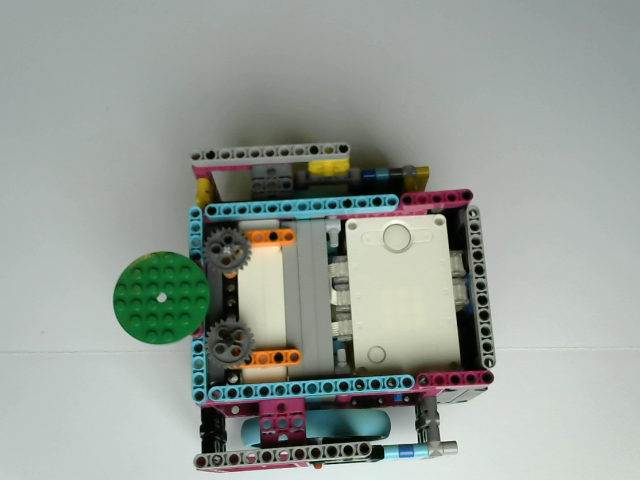
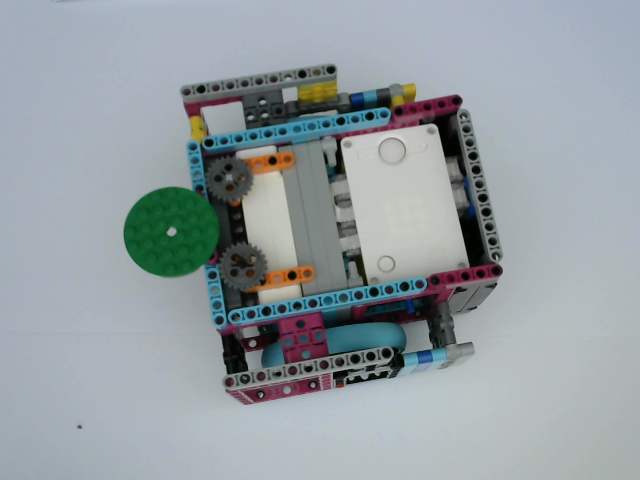
Changes to make all demo turn work.

diff --git a/demorunOneTest.py b/demorunOneTest.py
@@ -12,15 +12,16 @@ import csv
 # 6. computes the end actual angle.
 # 7. returns all of this as output.
 def runOneTest(angleToTest, speedToTest, turn_deceleration, correction):
-    startAnglePictureFilename = "startangle_robot_picture.png"
-    endAnglePictureFilename = "endangle_robot_picture.png"
+    #startAnglePictureFilename = "startangle_robot_picture.png"
+    #endAnglePictureFilename = "endangle_robot_picture.png"
+    startAnglePictureFilename = "test_start_picture.jpg"
+    endAnglePictureFilename = "test_end_picture.jpg"
 
     print("Capturing start picture")
-    startPicture = capturePicture(startAnglePictureFilename)
-
+    capturePicture(startAnglePictureFilename)
 
     print("Dectecting Start angle")
-    startFoundRobot, width, height, angle, startActualAngle = detectAngleOfRobotUsingImage("demo_start_picture.jpg", 
+    startFoundRobot, width, height, angle, startActualAngle = detectAngleOfRobotUsingImage(startAnglePictureFilename, 
                                                                                            showImages=True)
     #startFoundRobot, width, height, angle, startActualAngle = detectAngleOfRobotUsingImage(startAnglePictureFilename, 
     #                                                                                       showImages=False)
@@ -40,7 +41,7 @@ def runOneTest(angleToTest, speedToTest, turn_deceleration, correction):
     endPicture = capturePicture(endAnglePictureFilename)
 
     print("Dectecting end angle")
-    endFoundRobot, width, height, angle, endActualAngle = detectAngleOfRobotUsingImage("demo_end_picture.jpg",
+    endFoundRobot, width, height, angle, endActualAngle = detectAngleOfRobotUsingImage(endAnglePictureFilename,
                                                                                        showLastImage = True)
     #endFoundRobot, width, height, angle, endActualAngle = detectAngleOfRobotUsingImage(endAnglePictureFilename,
     #                                                                                   showLastImage = False)
@@ -76,7 +77,7 @@ def doOneExperiment():
     #writer.writeheader()
 
     # Use some standard values that we want to test to create one datapoint.
-    output = runOneTest(angleToTest=90, speedToTest=800, turn_deceleration=500, correction=0)
+    output = runOneTest(angleToTest=45, speedToTest=800, turn_deceleration=500, correction=0)
     output["Experiment"] = 1
     output["Iteration"] = 1
 

diff --git a/image_utilities.py b/image_utilities.py
@@ -17,7 +17,7 @@ def findCenterOfGreenCircle(filename, showImages=False):
     mask = cv2.inRange(hsv, lower_green, upper_green)
     
     # The black region in the mask has the value of 0,
-    # so when multiplied with original image removes all non-blue regions
+    # so when multiplied with original image removes all non-green regions
     result = cv2.bitwise_and(image, image, mask = mask)
 
     gray = cv2.cvtColor(result, cv2.COLOR_BGR2GRAY)
@@ -153,7 +153,7 @@ def findRobotRectangle(contours, canny_output, output_window_name, filename, sho
     # or 2 and 3. First find which one the circle is closest to.
     # This would be the front of the robot, Once we know the front, then we can decide
     # on the angle or 180+angle.
-    greenCircleX, greenCircleY = findCenterOfGreenCircle(filename, showImages=False)
+    greenCircleX, greenCircleY = findCenterOfGreenCircle(filename, showImages=True)
     angle = 0
     
     # Dictionary of key=distance, value=which edge. 

diff --git a/testProgram.py b/testProgram.py
@@ -2,5 +2,5 @@ from utilities import *
 hub = PrimeHub()
 print("Voltage=" + str(hub.battery.voltage()))
 print("Start Angle=" + str(getHeadingValue()))
-turnToAngle(targetAngle=90, turn_rate=800, turn_deceleration=500, correction=0)
+turnToAngle(targetAngle=45, turn_rate=800, turn_deceleration=500, correction=0)
 print("End Angle=" + str(getHeadingValue()))

diff --git a/Untitled-1.py b/Untitled-1.py
@@ -1,0 +1,6 @@
+
+from image_utilities import *
+
+startAnglePictureFilename = "test_start_picture.jpg"
+print("Capturing start picture")
+startPicture = capturePicture(startAnglePictureFilename)

diff --git a/test_capture.py b/test_capture.py
@@ -1,0 +1,6 @@
+
+from image_utilities import *
+
+startAnglePictureFilename = "test_start_picture.jpg"
+print("Capturing start picture")
+startPicture = capturePicture(startAnglePictureFilename)

diff --git a/computeTurnParams.py b/computeTurnParams.py
@@ -156,5 +156,5 @@ def doOneExperiment():
     f.close()
 
 # Use this method to actually capture all the data.
-tryDifferentAngles(50)
+tryDifferentAngles(5)
 
